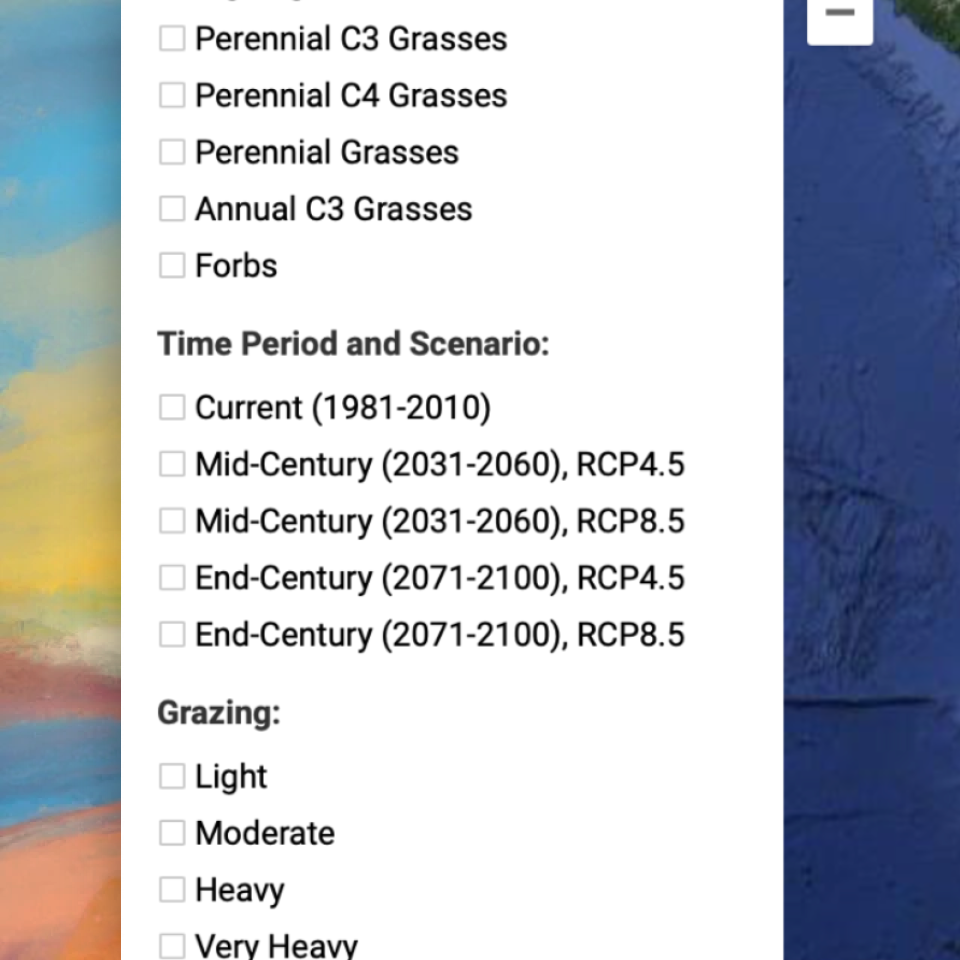
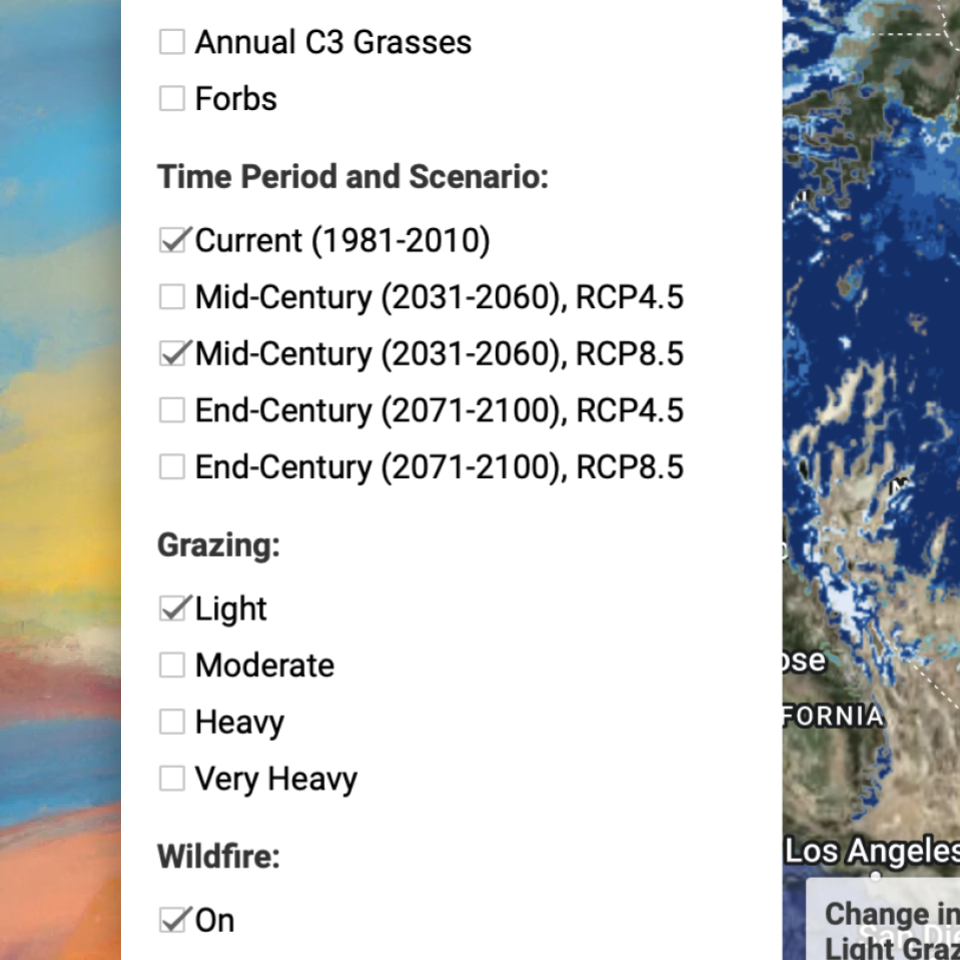
Completed GettingStarted.jsx

Changed region(s): [[0.1562, 0.0312, 0.7188, 1.0], [0.8125, 0.0, 1.0, 1.0]]

diff --git a/src/pages/GettingStarted.jsx b/src/pages/GettingStarted.jsx
@@ -3,6 +3,14 @@ import Footer from '../scenes/Footer';
 import { Helmet } from 'react-helmet-async';
 import { GoArrowUpRight } from 'react-icons/go';
 import { HiChevronRight } from "react-icons/hi2";
+import PlantFunctional from "../assets/GettingStarted/plant-functional.png";
+import TimePeriod from "../assets/GettingStarted/time-period.png";
+import GrazingWildfire from "../assets/GettingStarted/grazing-wildfire.png";
+import DrawShape from "../assets/GettingStarted/draw-shape.png";
+import Rectangle from "../assets/GettingStarted/rectangle.png";
+import Download from "../assets/GettingStarted/download.png";
+import DataViewer from "../assets/GettingStarted/data-viewer.png";
+import Manager from "../assets/GettingStarted/manager.png";
 
 const GettingStarted = () => {
     return (
@@ -12,7 +20,7 @@ const GettingStarted = () => {
             </Helmet>
             <Navbar />
             <div className="mx-auto px-5 sm:px-10 md:px-5 md:w-[1088px]">
-                <h1 className="text-3xl xs:text-4xl sm:text-5xl mt-28 xs:mt-32 sm:mt-40 font-product-sans-regular mb-4 text-center">Getting started</h1>
+                <h1 className="text-4xl xs:text-5xl sm:text-6xl mt-28 xs:mt-32 sm:mt-40 font-product-sans-regular mb-4 text-center">Getting started</h1>
 
                 <div className="flex justify-center mt-8">
                     <a
@@ -32,6 +40,143 @@ const GettingStarted = () => {
                         <HiChevronRight size={14} className="ml-1" />
                         <span className="absolute left-0 bottom-[4px] w-full h-[1px] bg-black opacity-0 group-hover:opacity-100 transition-opacity duration-300"></span>
                     </a>
+                </div>
+
+                {/* LAYER OPTIONS */}
+                <h1 className="text-3xl xs:text-4xl sm:text-5xl mt-24 xs:mt-28 sm:mt-32 font-product-sans-regular text-center">Layer options</h1>
+                {/* Plant functional type */}
+                <div className="flex items-center mb-24 mt-12 h-0 pb-[50%] md:h-[544px] relative">
+                    <div className="absolute inset-0 flex w-full h-full">
+                        <div className="w-1/2 bg-greymd p-[5vw] md:p-16 rounded-l-lg h-full flex flex-col justify-center">
+                            <h3 className="text-base md:text-xl font-product-sans-regular mb-4 md:mb-8 text-grey">Plant functional type</h3>
+                            <p className="text-base md:text-xl tracking-wide font-product-sans-light-regular mb-4 md:mb-8">
+                                Use the checkbox to choose from big sagebrush, perennial C3 grasses, perennial C4 grasses, perennial grasses, annual C3 grasses, and forbs. Check all relevant species.
+                            </p>
+                        </div>
+                        <div className="w-1/2 overflow-hidden">
+                            <img src={PlantFunctional} alt="Sagebrush ecosystem" className="w-full h-full object-cover rounded-r-lg" />
+                        </div>
+                    </div>
+                </div>
+                {/* Time period and scenario */}
+                <div className="flex items-center my-24 h-0 pb-[50%] md:h-[544px] relative">
+                    <div className="absolute inset-0 flex w-full h-full">
+                        <div className="w-1/2 bg-greymd p-[5vw] md:p-16 rounded-l-lg h-full flex flex-col justify-center">
+                            <h3 className="text-base md:text-xl font-product-sans-regular mb-4 md:mb-8 text-grey">Time period and scenario</h3>
+                            <p className="text-base md:text-xl tracking-wide font-product-sans-light-regular mb-4 md:mb-8">
+                                Choose from three time periods&mdash;current (1981-2010), mid-century (2031-2060), and end-century (2071-2100)&mdash;and two climate change scenarios, RCP4.5 (a less severe trajectory) and RCP8.5 (a more extreme trajectory).
+                            </p>
+                            <div className="flex text-sm font-product-sans-light-regular tracking-wide">
+                                <a
+                                    href="https://cal-adapt.org/help/faqs/which-rcp-scenarios-should-i-use-in-my-analysis/"
+                                    className="flex items-center relative group"
+                                >
+                                    Read more about RCPs <GoArrowUpRight size={15} className="ml-1" />
+                                    <span className="absolute left-0 bottom-[-2px] w-full h-[1px] bg-black opacity-0 group-hover:opacity-100 transition-opacity duration-300"></span>
+                                </a>
+                            </div>
+                        </div>
+                        <div className="w-1/2 overflow-hidden">
+                            <img src={TimePeriod} alt="Sagebrush ecosystem" className="w-full h-full object-cover rounded-r-lg" />
+                        </div>
+                    </div>
+                </div>
+                {/* Grazing and wildfire */}
+                <div className="flex items-center mt-24 mb-12 h-0 pb-[50%] md:h-[544px] relative">
+                    <div className="absolute inset-0 flex w-full h-full">
+                        <div className="w-1/2 bg-greymd p-[5vw] md:p-16 rounded-l-lg h-full flex flex-col justify-center">
+                            <h3 className="text-base md:text-xl font-product-sans-regular mb-4 md:mb-8 text-grey">Grazing and wildfire</h3>
+                            <p className="text-base md:text-xl tracking-wide font-product-sans-light-regular mb-4 md:mb-8">
+                                EcoForecast can simulate various grazing levels and incorporate wildfire scenarios. Providing inputs based on specific grazing conditions or wildfire susceptibility in your area of interest.
+                            </p>
+                        </div>
+                        <div className="w-1/2 overflow-hidden">
+                            <img src={GrazingWildfire} alt="Sagebrush ecosystem" className="w-full h-full object-cover rounded-r-lg" />
+                        </div>
+                    </div>
+                </div>
+                <p className="font-product-sans-light-regular text-md xs:text-lg sm:text-xl text-center">Note that not all combinations of selected layers exist.
+                </p>
+
+                {/* AREA OF INTEREST */}
+                <h1 className="text-3xl xs:text-4xl sm:text-5xl mt-24 xs:mt-28 sm:mt-32 font-product-sans-regular text-center">Area of interest</h1>
+                {/* Draw a shape */}
+                <div className="flex items-center mb-24 mt-12 h-0 pb-[50%] md:h-[544px] relative">
+                    <div className="absolute inset-0 flex w-full h-full">
+                        <div className="w-1/2 bg-greymd p-[5vw] md:p-16 rounded-l-lg h-full flex flex-col justify-center">
+                            <h3 className="text-base md:text-xl font-product-sans-regular mb-4 md:mb-8 text-grey">Draw a shape</h3>
+                            <p className="text-base md:text-xl tracking-wide font-product-sans-light-regular mb-4 md:mb-8">
+                                Press Draw and use the cursor to click points encircling your area of interest. Once finished, click the first point again to complete the selection.
+                            </p>
+                        </div>
+                        <div className="w-1/2 overflow-hidden">
+                            <img src={DrawShape} alt="Sagebrush ecosystem" className="w-full h-full object-cover rounded-r-lg" />
+                        </div>
+                    </div>
+                </div>
+                {/* Produce a rectangle */}
+                <div className="flex items-center my-24 h-0 pb-[50%] md:h-[544px] relative">
+                    <div className="absolute inset-0 flex w-full h-full">
+                        <div className="w-1/2 bg-greymd p-[5vw] md:p-16 rounded-l-lg h-full flex flex-col justify-center">
+                            <h3 className="text-base md:text-xl font-product-sans-regular mb-4 md:mb-8 text-grey">Produce a rectangle</h3>
+                            <p className="text-base md:text-xl tracking-wide font-product-sans-light-regular mb-4 md:mb-8">
+                                Enter the latitude and longitude coordinates of the North-East (top right) and south west (bottom left) vertices of a rectangular area of interest.
+                            </p>
+                        </div>
+                        <div className="w-1/2 overflow-hidden">
+                            <img src={Rectangle} alt="Sagebrush ecosystem" className="w-full h-full object-cover rounded-r-lg" />
+                        </div>
+                    </div>
+                </div>
+
+                {/* DOWNLOADING DATA */}
+                <h1 className="text-3xl xs:text-4xl sm:text-5xl mt-24 xs:mt-28 sm:mt-32 font-product-sans-regular text-center">Downloading data</h1>
+                {/* Generate a download link */}
+                <div className="flex items-center my-12 h-0 pb-[50%] md:h-[544px] relative">
+                    <div className="absolute inset-0 flex w-full h-full">
+                        <div className="w-1/2 bg-greymd p-[5vw] md:p-16 rounded-l-lg h-full flex flex-col justify-center">
+                            <h3 className="text-base md:text-xl font-product-sans-regular mb-4 md:mb-8 text-grey">Get download link</h3>
+                            <p className="text-base md:text-xl tracking-wide font-product-sans-light-regular mb-4 md:mb-8">
+                                Press Download to generate a download link. The link contains a compressed ZIP file containing TIF rasters of all the selected layers within the area(s) of interest. If no area(s) of interest were selected, the images will cover the entire layer.
+                            </p>
+                        </div>
+                        <div className="w-1/2 overflow-hidden">
+                            <img src={Download} alt="Sagebrush ecosystem" className="w-full h-full object-cover rounded-r-lg" />
+                        </div>
+                    </div>
+                </div>
+                <p className="font-product-sans-light-regular text-md xs:text-lg sm:text-xl text-center">Due to the size of images, certain downloads are not possible.
+                </p>
+
+                {/* FEATURES */}
+                <h1 className="text-3xl xs:text-4xl sm:text-5xl mt-24 xs:mt-28 sm:mt-32 font-product-sans-regular text-center">Features</h1>
+                {/* Data viewer */}
+                <div className="flex items-center mb-24 mt-12 h-0 pb-[50%] md:h-[544px] relative">
+                    <div className="absolute inset-0 flex w-full h-full">
+                        <div className="w-1/2 bg-greymd p-[5vw] md:p-16 rounded-l-lg h-full flex flex-col justify-center">
+                            <h3 className="text-base md:text-xl font-product-sans-regular mb-4 md:mb-8 text-grey">Data viewer</h3>
+                            <p className="text-base md:text-xl tracking-wide font-product-sans-light-regular mb-4 md:mb-8">
+                                STEPWAT2 is a simulation model that assesses climate change and disturbance impacts on dryland plant communities. Using a process-based soil water model, it predicts how soil moisture and disturbances alter plant composition and biomass.
+                            </p>
+                        </div>
+                        <div className="w-1/2 overflow-hidden">
+                            <img src={DataViewer} alt="Sagebrush ecosystem" className="w-full h-full object-cover rounded-r-lg" />
+                        </div>
+                    </div>
+                </div>
+                {/* Geometry and layer managers */}
+                <div className="flex items-center my-24 h-0 pb-[50%] md:h-[544px] relative">
+                    <div className="absolute inset-0 flex w-full h-full">
+                        <div className="w-1/2 bg-greymd p-[5vw] md:p-16 rounded-l-lg h-full flex flex-col justify-center">
+                            <h3 className="text-base md:text-xl font-product-sans-regular mb-4 md:mb-8 text-grey">Geometry imports and layers managers</h3>
+                            <p className="text-base md:text-xl tracking-wide font-product-sans-light-regular mb-4 md:mb-8">
+                                Use the geometry imports and layers managers to hide or show shapes or data layers. Unchecking a layer does not delete it, only hides it from view.
+                            </p>
+                        </div>
+                        <div className="w-1/2 overflow-hidden">
+                            <img src={Manager} alt="Sagebrush ecosystem" className="w-full h-full object-cover rounded-r-lg" />
+                        </div>
+                    </div>
                 </div>
 
             </div>

diff --git a/src/scenes/Info.jsx b/src/scenes/Info.jsx
@@ -72,7 +72,7 @@ const Info = () => {
                     <div className="flex items-center my-24 h-0 pb-[50%] md:h-[544px] relative">
                         <div className="absolute inset-0 flex w-full h-full">
                             <div className="w-1/2 overflow-hidden">
-                                <img src={backedByScience} alt="Image 1" className="w-full h-full object-cover rounded-l-lg" />
+                                <img src={backedByScience} alt="Dryland ecosystem field researchers" className="w-full h-full object-cover rounded-l-lg" />
                             </div>
                             <div className="w-1/2 bg-greymd p-[5vw] md:p-16 rounded-r-lg h-full flex flex-col justify-center">
                                 <h3 className="text-base md:text-xl font-product-sans-regular mb-4 md:mb-8 text-grey">Backed by science</h3>
